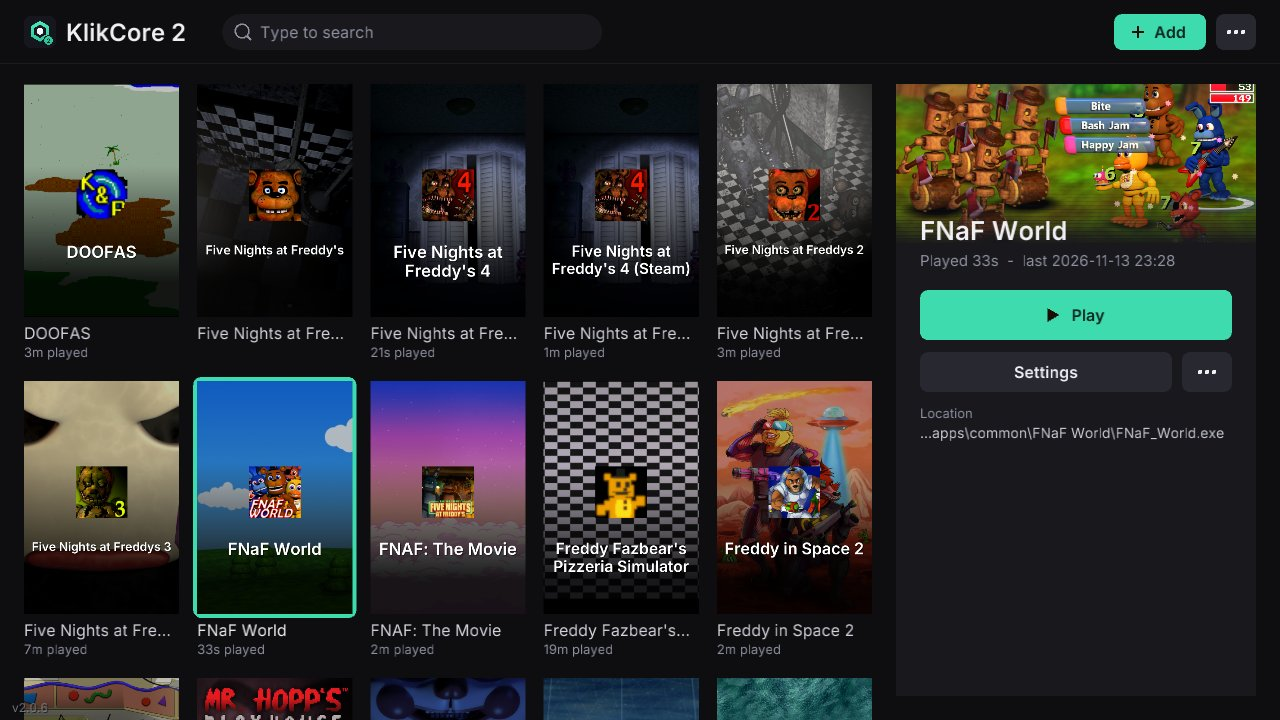
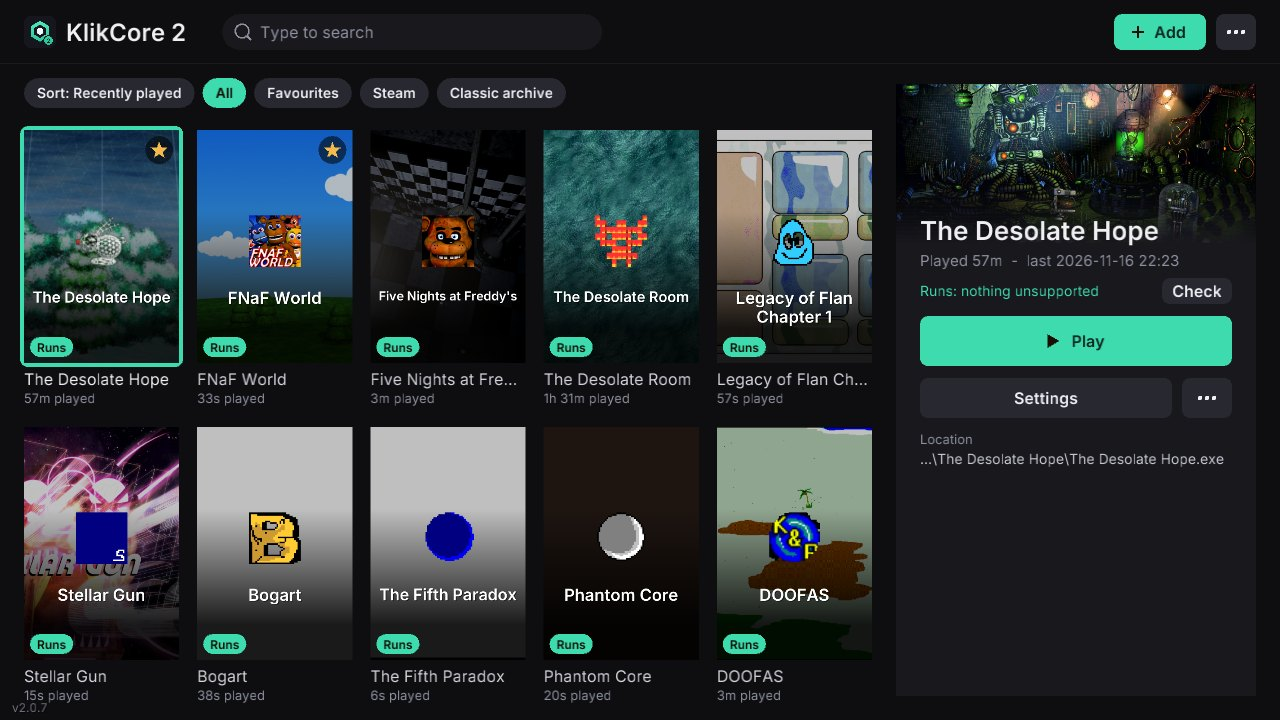
KlikCore 2.0.7: library tools (sort, favourites, collections, compatibility), TV mode, play stats, save snapshots, reports, tests; new screenshots

diff --git a/klikcore.html b/klikcore.html
@@ -118,6 +118,10 @@
           <p>One click runs a game's art through Real-ESRGAN and saves it as an HD pack, drawn at your screen's resolution. Every image is checked against the original, and any the AI gets wrong keep their original art. A progress bar shows how long is left. The originals are untouched, and collisions still use them.</p>
         </div>
         <div class="feature-card">
+          <h3>Your library, organised</h3>
+          <p>Sort and filter, star favourites, make collections, and see at a glance which games run fully. Screenshots, save snapshots and play stats for every game, and a TV mode for the couch.</p>
+        </div>
+        <div class="feature-card">
           <h3>Your settings</h3>
           <p>Volume, display, upscaling and controller settings for each game, plus defaults for games you haven't set up and a launcher interface size that suits your screen.</p>
         </div>
@@ -150,8 +154,8 @@
       <h2 class="section-title">Screenshots</h2>
       <div class="gallery-grid gallery-wide shots">
         <figure class="shot">
-          <a href="assets/img/klikcore/gallery/library.jpg" target="_blank" rel="noopener"><img src="assets/img/klikcore/gallery/library.jpg" alt="The library: your games with their Steam artwork, play time and one-click play." loading="lazy"></a>
-          <figcaption>The library: your games with their Steam artwork, play time and one-click play.</figcaption>
+          <a href="assets/img/klikcore/gallery/library.jpg" target="_blank" rel="noopener"><img src="assets/img/klikcore/gallery/library.jpg" alt="The library: sort and filter, favourites, collections and a compatibility badge on every game." loading="lazy"></a>
+          <figcaption>The library: sort and filter, favourites, collections and a compatibility badge on every game.</figcaption>
         </figure>
         <figure class="shot">
           <a href="assets/img/klikcore/gallery/ai-upscale.jpg" target="_blank" rel="noopener"><img src="assets/img/klikcore/gallery/ai-upscale.jpg" alt="AI upscale pack: the same scene with the original art and with the AI pack." loading="lazy"></a>
@@ -184,6 +188,26 @@
         <figure class="shot">
           <a href="assets/img/klikcore/gallery/settings.jpg" target="_blank" rel="noopener"><img src="assets/img/klikcore/gallery/settings.jpg" alt="KlikCore&#x27;s own settings, and the defaults new games start with." loading="lazy"></a>
           <figcaption>KlikCore&#x27;s own settings, and the defaults new games start with.</figcaption>
+        </figure>
+        <figure class="shot">
+          <a href="assets/img/klikcore/gallery/tv-mode.jpg" target="_blank" rel="noopener"><img src="assets/img/klikcore/gallery/tv-mode.jpg" alt="TV mode: a big fullscreen library for the TV or the Steam Deck&#x27;s Gaming Mode." loading="lazy"></a>
+          <figcaption>TV mode: a big fullscreen library for the TV or the Steam Deck&#x27;s Gaming Mode.</figcaption>
+        </figure>
+        <figure class="shot">
+          <a href="assets/img/klikcore/gallery/play-stats.jpg" target="_blank" rel="noopener"><img src="assets/img/klikcore/gallery/play-stats.jpg" alt="Play stats: time played, your most played games and the last 30 days." loading="lazy"></a>
+          <figcaption>Play stats: time played, your most played games and the last 30 days.</figcaption>
+        </figure>
+        <figure class="shot">
+          <a href="assets/img/klikcore/gallery/save-snapshots.jpg" target="_blank" rel="noopener"><img src="assets/img/klikcore/gallery/save-snapshots.jpg" alt="Save snapshots: take one, and restore any snapshot or backup in one click." loading="lazy"></a>
+          <figcaption>Save snapshots: take one, and restore any snapshot or backup in one click.</figcaption>
+        </figure>
+        <figure class="shot">
+          <a href="assets/img/klikcore/gallery/report.jpg" target="_blank" rel="noopener"><img src="assets/img/klikcore/gallery/report.jpg" alt="Report a problem: a zip with the log, compatibility check, screenshot and recording." loading="lazy"></a>
+          <figcaption>Report a problem: a zip with the log, compatibility check, screenshot and recording.</figcaption>
+        </figure>
+        <figure class="shot">
+          <a href="assets/img/klikcore/gallery/tests.jpg" target="_blank" rel="noopener"><img src="assets/img/klikcore/gallery/tests.jpg" alt="Tests: run scenarios and Ctrl+R recordings from the launcher." loading="lazy"></a>
+          <figcaption>Tests: run scenarios and Ctrl+R recordings from the launcher.</figcaption>
         </figure>
       </div>
     </div>

diff --git a/klikcore-compatibility.html b/klikcore-compatibility.html
@@ -47,7 +47,7 @@
         <a href="klikcore.html#download" class="btn">Download KlikCore</a>
         <a href="klikcore.html" class="btn btn-outline">About KlikCore</a>
       </div>
-      <p class="hero-note">Last updated November 2026 · KlikCore 2.0.6 · Windows 11, Steam Deck and Android</p>
+      <p class="hero-note">Last updated November 2026 · KlikCore 2.0.7 · Windows 11, Steam Deck and Android</p>
     </div>
   </section>
 
